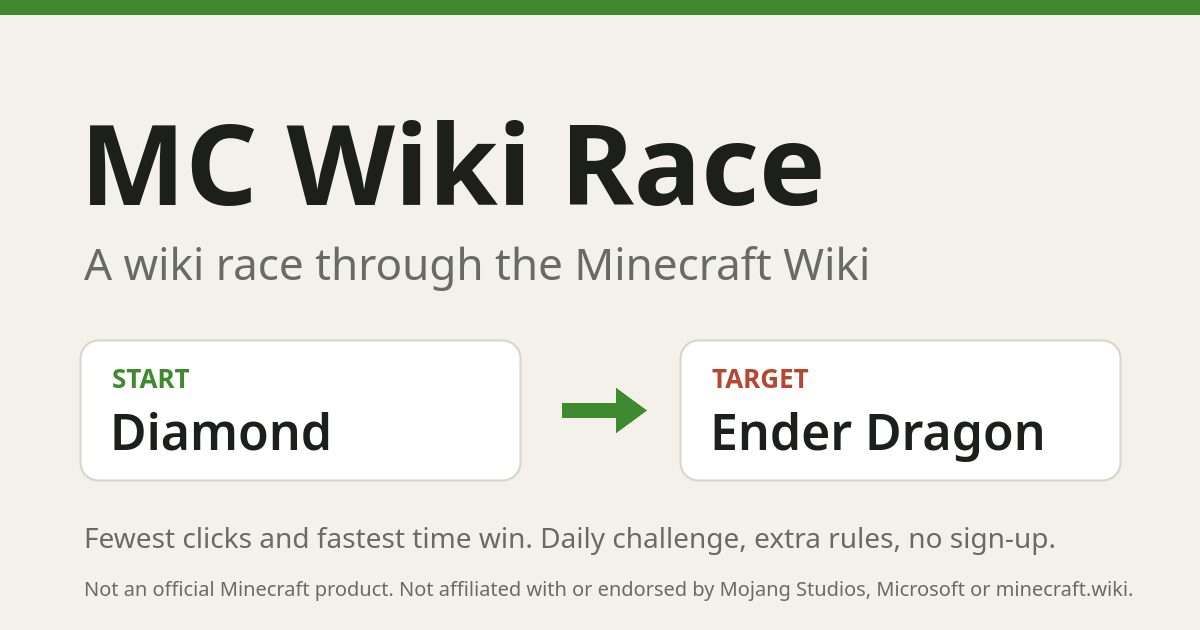
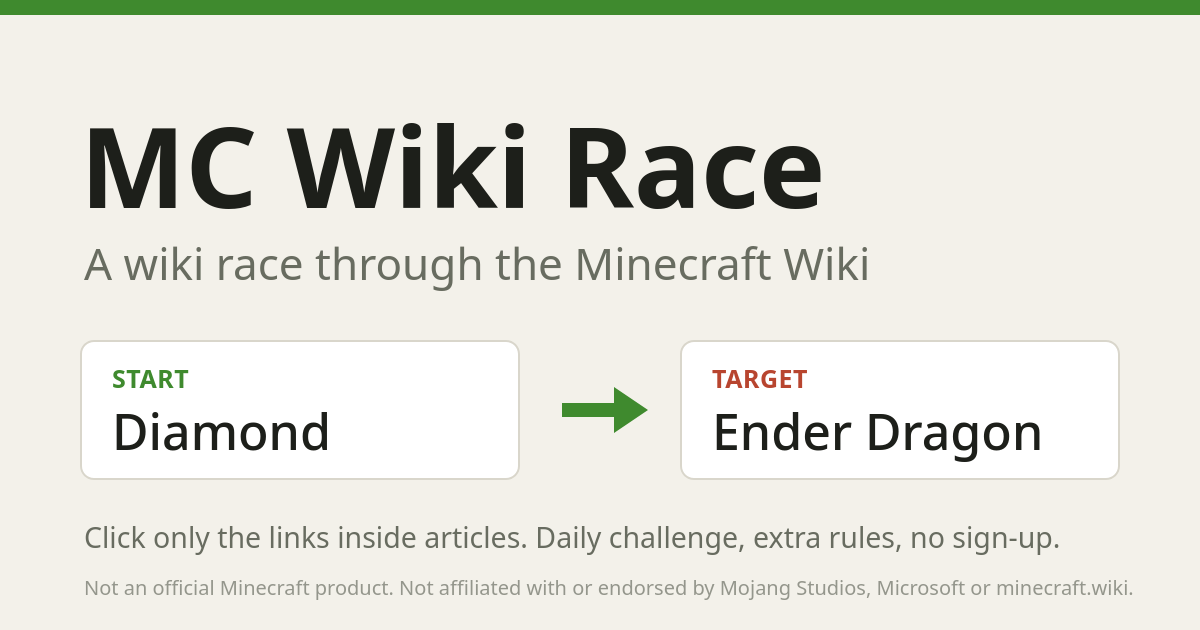
Cut the line under the title to the rule it states, since fewest clicks and fastest time isn't how Exact clicks or an untimed game is won, and say the same in the README and the link-preview image

diff --git a/index.html b/index.html
@@ -750,7 +750,7 @@ const THEMES = [...new Set(['auto', 'light', 'dark', ...Array.from(document.quer
       </details>
     </div>
   </div>
-  <p class="sub">Get from the start article to the target using only the links inside articles. Fewest clicks and fastest time win.</p>
+  <p class="sub">Get from the start article to the target using only the links inside articles.</p>
   <noscript><div class="noscript"><p><strong>This game needs JavaScript.</strong> It fetches articles from minecraft.wiki as you play, so turn JavaScript on for this page and reload it.</p></div></noscript>
 
   <div class="daily-box">

diff --git a/README.md b/README.md
@@ -1,6 +1,6 @@
 # MC Wiki Race
 
-A wiki race (like [The Wiki Game](https://www.thewikigame.com/)) through [minecraft.wiki](https://minecraft.wiki): you get a random start article and a target article, and have to reach the target by clicking only the links inside articles. Fewest clicks and fastest time win.
+A wiki race (like [The Wiki Game](https://www.thewikigame.com/)) through [minecraft.wiki](https://minecraft.wiki): you get a random start article and a target article, and have to reach the target by clicking only the links inside articles.
 
 Play it at **[mcwikirace.com](https://mcwikirace.com/)**.
 
